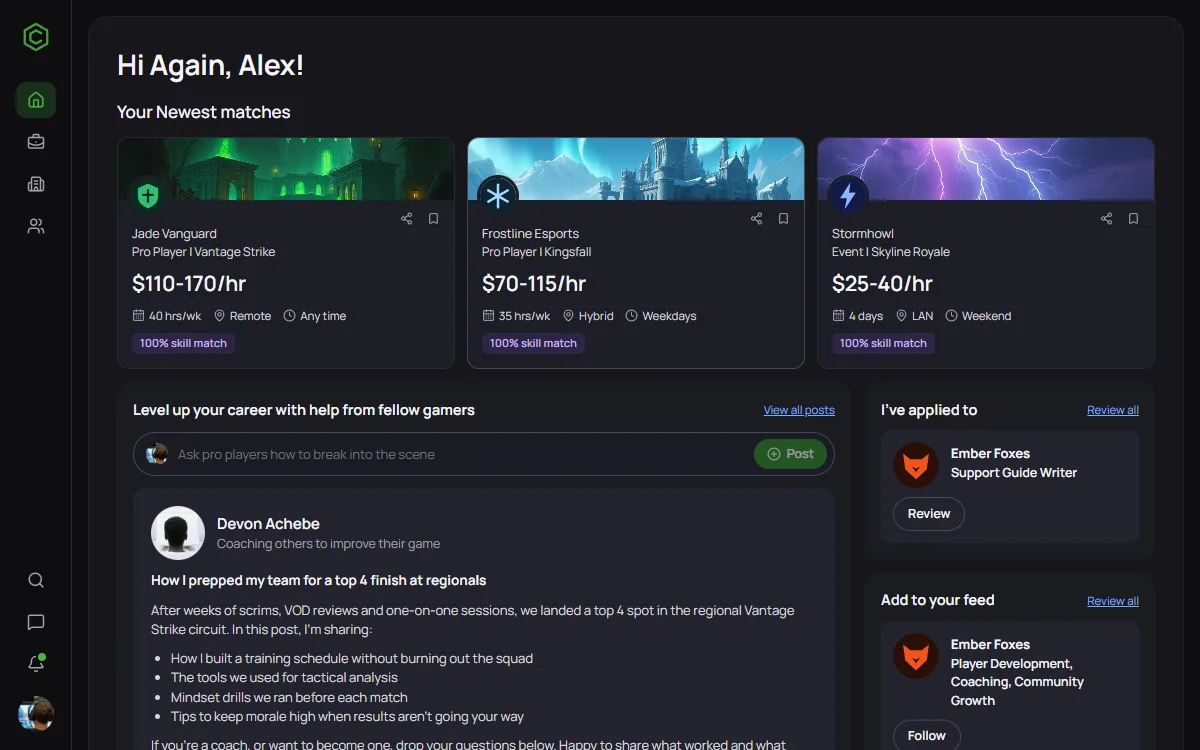
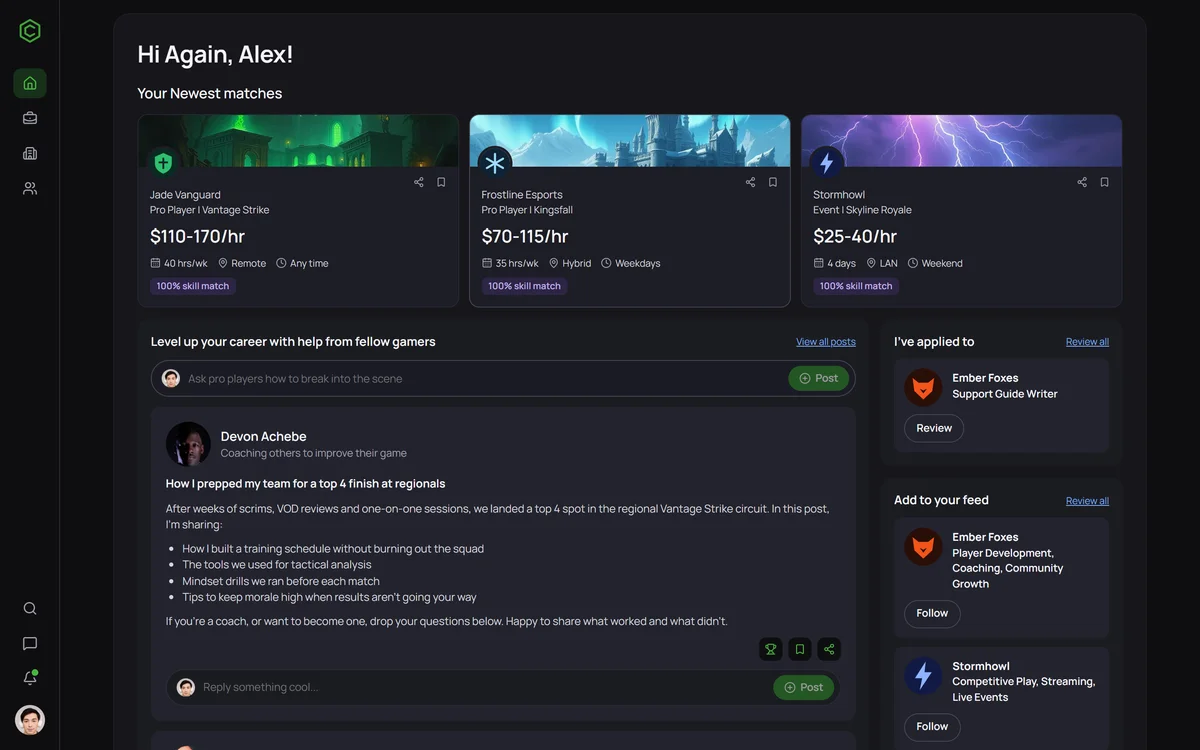
Use stock portraits that show faces
Characters from behind looked unsettling. The app now says that characters
are fictional and that the people photographed are unrelated to the project.

diff --git a/src/pages/People.tsx b/src/pages/People.tsx
@@ -8,7 +8,7 @@ export function People() {
   return (
     <div className="page">
       <h1 className="page-title">People</h1>
-      <p className="muted page-note">Everyone here is fictional, and their replies are written by AI.</p>
+      <p className="muted page-note">These characters are fictional and their replies are written by AI. Their photos are stock images of people unrelated to this project.</p>
       <Status loading={loading} error={error} onRetry={reload} />
       <div className="people-grid">
         {data?.map((person) => (

diff --git a/src/ui/common.tsx b/src/ui/common.tsx
@@ -133,6 +133,8 @@ export function CreditLine() {
     <p className="credit">
       Design by Julian Sucatti · Built by{" "}
       <a href="https://fsucatti-portfolio.fsucatti-portfolio.workers.dev" target="_blank" rel="noreferrer">Francisco Sucatti</a>
+      <br />
+      Characters are fictional. Photos of people from <a href="https://www.pexels.com" target="_blank" rel="noreferrer">Pexels</a>, unrelated to this project.
     </p>
   );
 }

diff --git a/src/pages/Inbox.tsx b/src/pages/Inbox.tsx
@@ -61,6 +61,7 @@ function Thread({ personId, onSent }: { personId: string; onSent: () => void }) 
         <div>
           <h2>{person.name}</h2>
           <p className="small">{person.role}. {person.bio}</p>
+          <p className="muted small">Fictional character. Replies are written by AI.</p>
         </div>
       </section>
       <section className="panel thread" aria-label={`Conversation with ${person.name}`}>

diff --git a/docs/IMAGE-CREDITS.md b/docs/IMAGE-CREDITS.md
@@ -2,24 +2,24 @@
 
 ## People
 
-The photos in `public/images/people/` come from [Pexels](https://www.pexels.com). All of them are under the [Pexels License](https://www.pexels.com/license/), checked on November 4, 2026. They were cropped to a square, resized to 320x320 and converted to WebP.
+The photos in `public/images/people/` come from [Pexels](https://www.pexels.com), under the [Pexels License](https://www.pexels.com/license/), checked on November 4, 2026. They were cropped to the face, resized to 320x320 and converted to WebP.
 
-| File | Character | Photo | Author | License |
-|---|---|---|---|---|
-| `alex.webp` | Sample guest profile | [Man in front of Screen](https://www.pexels.com/photo/man-in-front-of-screen-15870665/) | Ronan De klerk | Pexels License |
-| `mara.webp` | Mara Quinn | [Back View of a Woman with Tousled Brown Hair Standing on a Green Field](https://www.pexels.com/photo/back-view-of-a-woman-with-tousled-brown-hair-standing-on-a-green-field-16830792/) | Beyzaa | Pexels License |
-| `devon.webp` | Devon Achebe | [Person with Afro Hair Using a Computer](https://www.pexels.com/photo/person-with-afro-hair-using-a-computer-5185177/) | [cottonbro studio](https://www.pexels.com/@cottonbro/) | Pexels License |
-| `yuki.webp` | Yuki Tanabe | [Person Facing a Big Screen with Numbers](https://www.pexels.com/photo/person-facing-a-big-screen-with-numbers-9783346/) | [Ron Lach](https://www.pexels.com/@ron-lach/) | Pexels License |
-| `rafa.webp` | Rafa Moreno | [Unrecognizable man working on computer at home](https://www.pexels.com/photo/unrecognizable-man-working-on-computer-at-home-6177553/) | [Cup of Couple](https://www.pexels.com/@cup-of-couple/) | Pexels License |
-| `nadia.webp` | Nadia Farouk | [Back View of a Woman with Long Hair Wearing a Denim Jacket](https://www.pexels.com/photo/back-view-of-a-woman-with-long-hair-wearing-a-denim-jacket-9657052/) | Igreja Dimensão | Pexels License |
-| `tomas.webp` | Tomas Lind | [A Man Sitting at the Table](https://www.pexels.com/photo/a-man-sitting-at-the-table-5717787/) | [Kaboompics](https://www.pexels.com/@karola-g/) | Pexels License |
-| `priya.webp` | Priya Raman | [Back View of a Person Wearing a Light Blue Blazer](https://www.pexels.com/photo/back-view-of-a-person-wearing-a-light-blue-blazer-9168131/) | [cottonbro studio](https://www.pexels.com/@cottonbro/) | Pexels License |
-| `kofi.webp` | Kofi Mensah | [Back of Person in Hoodie](https://www.pexels.com/photo/back-of-person-in-hoodie-15564085/) | Marsel_Shots | Pexels License |
-| `lena.webp` | Lena Brandt | [Unrecognizable model touching wavy red hair on stool](https://www.pexels.com/photo/unrecognizable-model-touching-wavy-red-hair-on-stool-7611479/) | Jenny Uhling | Pexels License |
+| File | Character | Photo | Author |
+|---|---|---|---|
+| `alex.webp` | Sample guest profile | [Man Wearing White Headphones](https://www.pexels.com/photo/man-wearing-white-headphones-3394657/) | [Sound On](https://www.pexels.com/@sound-on/) |
+| `mara.webp` | Mara Quinn | [Face of Woman with Brown Hair](https://www.pexels.com/photo/face-of-woman-with-brown-hair-15116521/) | [shazardr](https://www.pexels.com/@shazardr/) |
+| `devon.webp` | Devon Achebe | [Portrait of Man](https://www.pexels.com/photo/portrait-of-man-16881939/) | [Ali Dashti](https://www.pexels.com/@ali-dashti-506667798/) |
+| `yuki.webp` | Yuki Tanabe | [Photo of a Woman Smiling](https://www.pexels.com/photo/photo-of-a-woman-smiling-1520760/) | [Đỗ Ngọc Tú Quyên](https://www.pexels.com/@doquyen/) |
+| `rafa.webp` | Rafa Moreno | [Man in Jean Jacket](https://www.pexels.com/photo/man-in-jean-jacket-16160864/) | [pessoas uem](https://www.pexels.com/@pessoas-uem-503045317/) |
+| `nadia.webp` | Nadia Farouk | [A Beautiful Woman in Black Blazer](https://www.pexels.com/photo/a-beautiful-woman-in-black-blazer-7860654/) | [Dario Moscato](https://www.pexels.com/@dario-moscato-56316545/) |
+| `tomas.webp` | Tomas Lind | [Black and White Photo of a Man Wearing Eyeglasses](https://www.pexels.com/photo/black-and-white-photo-of-a-man-wearing-eyeglasses-14739585/) | [Farhad Rahgozar](https://www.pexels.com/@farhadrahgozar/) |
+| `priya.webp` | Priya Raman | [A Woman in Red and Blue Saree Dress](https://www.pexels.com/photo/a-woman-in-red-and-blue-saree-dress-7275701/) | [GM ISLAM](https://www.pexels.com/@rina/) |
+| `kofi.webp` | Kofi Mensah | [Portrait of a Man with Greenery in Background](https://www.pexels.com/photo/portrait-of-a-man-with-greenery-in-background-40494199/) | [hashtag-melvin](https://www.pexels.com/@hashtag-melvin-1163687/) |
+| `lena.webp` | Lena Brandt | [A Woman with Redheaded](https://www.pexels.com/photo/a-woman-with-redheaded-13871770/) | [bertellifotografia](https://www.pexels.com/@bertellifotografia/) |
 
-The characters are fictional. Their names, jobs and AI-written messages have nothing to do with the people photographed or with the photographers.
+The characters are fictional. Their names, jobs and AI-written messages have nothing to do with the people photographed or with the photographers, and none of those people endorse or are affiliated with this project.
 
-Every photo shows someone from behind, so nobody can be recognized. That's deliberate: the [Pexels terms](https://www.pexels.com/terms-of-service/) don't allow suggesting that a person in a photo is affiliated with a product. Don't swap these for photos where a face is visible.
+If someone in a photo asks for it to be removed, replace it right away.
 
 ## Games
 

diff --git a/README.md b/README.md
@@ -10,7 +10,7 @@ A talent platform for esports. Players build a profile, find teams and roles, ap
 
 Design by **Julian Sucatti**. Built by **Francisco Sucatti**.
 
-Every team, game and person in the app is invented. Game pictures are AI-generated, and people's pictures are stock photos taken from behind, with [credits here](docs/IMAGE-CREDITS.md).
+Every team, game and character in the app is invented. Game pictures are AI-generated. Characters use stock photos, with [credits here](docs/IMAGE-CREDITS.md): the people photographed have no connection to this project.
 
 ## Getting started
 
